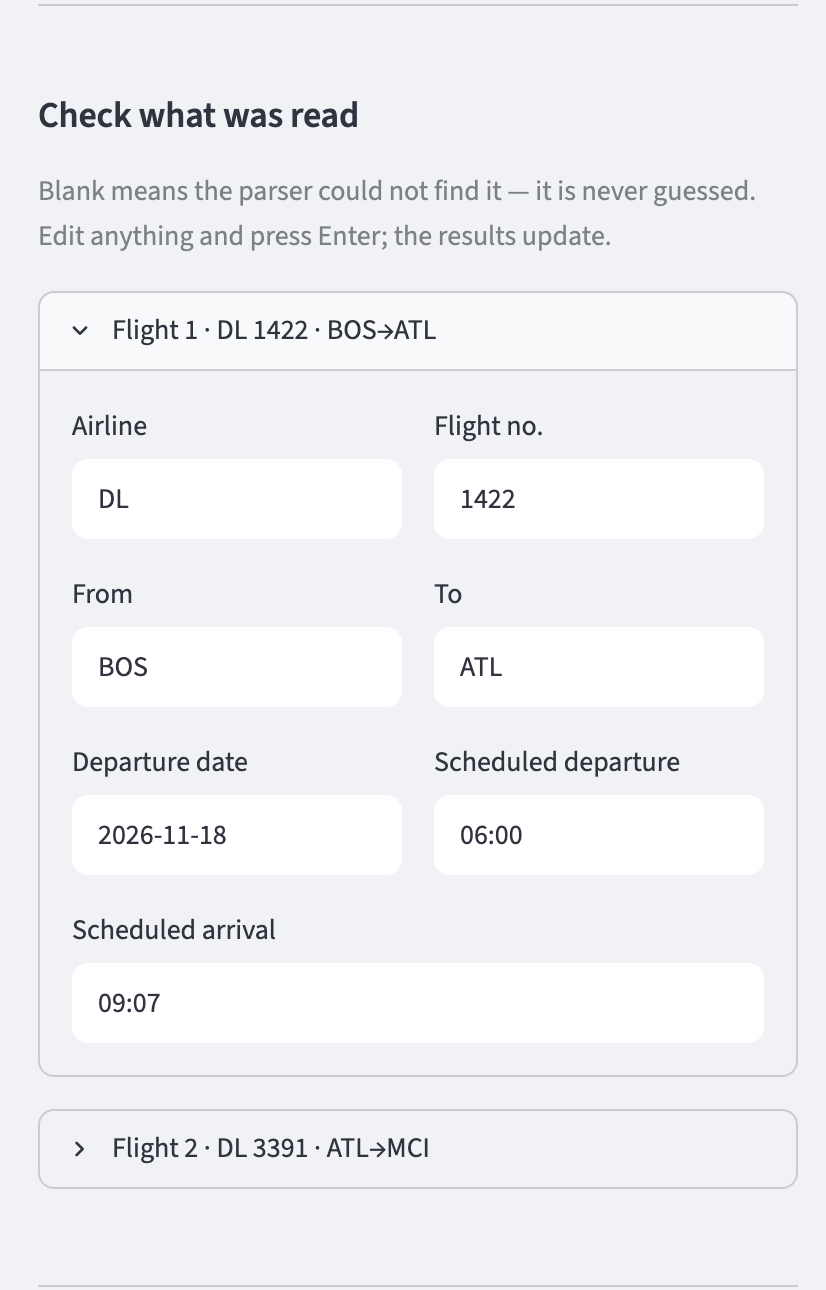
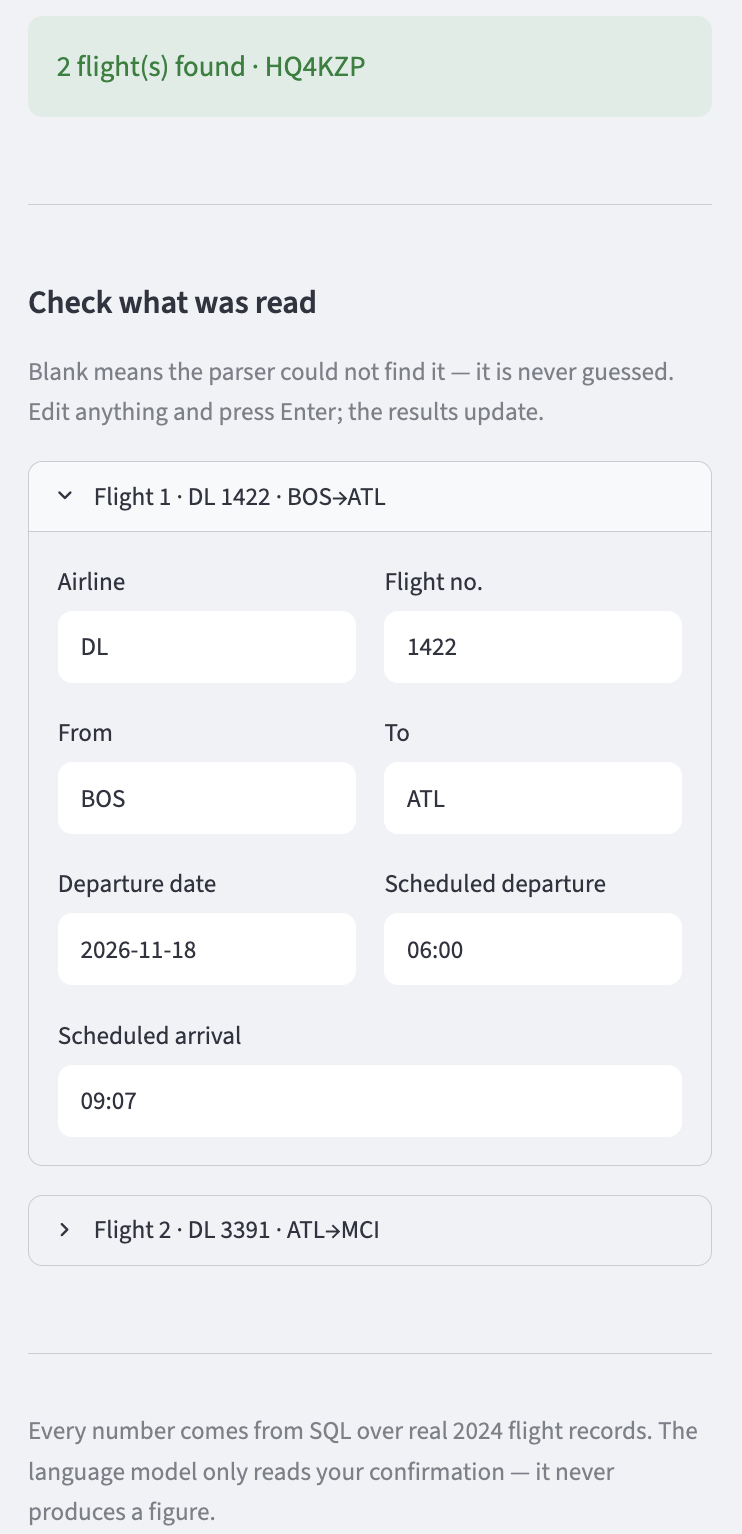
Allow entering a flight by hand, and add four more sample confirmations
There was no way to ask about a route without first pasting a
confirmation, so anyone wanting to check a specific flight had to invent
one. A button now drops in an empty leg and the same editable fields
appear with nothing parsed into them; the provenance panel says the
itinerary was entered by hand rather than naming a parser that did not
run.

The single Delta sample is now a picker over five, chosen to exercise
different shapes: a forwarded email with headers and a regional
operator, a single-leg Alaska booking, a United one missing its airports
so the never-guess rule is visible, and text that is not a confirmation
at all.

Claude-Session: https://claude.ai/code/session_01XoMJsLG5j6umZEBPgeHnwg

diff --git a/app/app.py b/app/app.py
@@ -40,6 +40,14 @@ st.markdown(
     unsafe_allow_html=True,
 )
 
+SAMPLES = {
+    "Delta, two legs via Atlanta": "confirmation_synthetic.txt",
+    "American, forwarded email": "confirmation_forwarded.txt",
+    "Alaska, single leg": "confirmation_alaska.txt",
+    "United, missing airports": "confirmation_united_partial.txt",
+    "Not a confirmation at all": "not_a_confirmation.txt",
+}
+
 EDITABLE = [
     ("carrier", "Airline", "DL"),
     ("flight_number", "Flight no.", "1422"),
@@ -144,9 +152,27 @@ with st.sidebar:
     )
     st.divider()
 
-    if st.button("Use a sample itinerary", use_container_width=True):
-        st.session_state["raw_text"] = (FIXTURES / "confirmation_synthetic.txt").read_text()
+    sample = st.selectbox(
+        "Try a sample", list(SAMPLES), index=0,
+        help="Different airlines and formats, including ones Murphy should refuse.",
+    )
+    if st.button("Load this sample", use_container_width=True):
+        st.session_state["raw_text"] = (FIXTURES / SAMPLES[sample]).read_text()
         reset()
+
+    # Not everyone has a confirmation to hand, and nobody should have to fake one
+    # to ask about a route. This drops in an empty leg so the same editable
+    # fields appear with nothing parsed into them.
+    if st.button("Enter a flight by hand", use_container_width=True):
+        reset()
+        st.session_state["raw_text"] = ""
+        st.session_state["legs"] = [{
+            "carrier": None, "flight_number": None, "origin": None, "dest": None,
+            "departure_date": None, "scheduled_departure_local": None,
+            "scheduled_arrival_local": None, "operated_by": None,
+        }]
+        st.session_state["confirmation_code"] = None
+        st.session_state["used_model"] = "entered by hand"
 
     raw_text = st.text_area(
         "Booking confirmation", key="raw_text", height=220,
@@ -457,13 +483,14 @@ November 2026 flight is compared against November 2024 flights on the same
 route.
 """)
             st.code(result.sql, language="sql")
+            source = st.session_state.get("used_model", "the language model")
             st.caption(
-                f"Parsed by {st.session_state.get('used_model', 'the language model')}, "
-                f"which reads the confirmation text only. Every number above is "
-                f"computed by SQL over the rows listed — the model never produces a "
-                f"figure. Delays are measured in minutes against the published "
-                f"schedule; cancelled flights are counted separately rather than "
-                f"folded into the range."
+                ("Entered by hand. " if source == "entered by hand"
+                 else f"Parsed by {source}, which reads the confirmation text only. ")
+                + "Every number above is computed by SQL over the rows listed — the "
+                "model never produces a figure. Delays are measured in minutes against "
+                "the published schedule; cancelled flights are counted separately "
+                "rather than folded into the range."
             )
 
 # --------------------------------------------------------- 3. better routes
